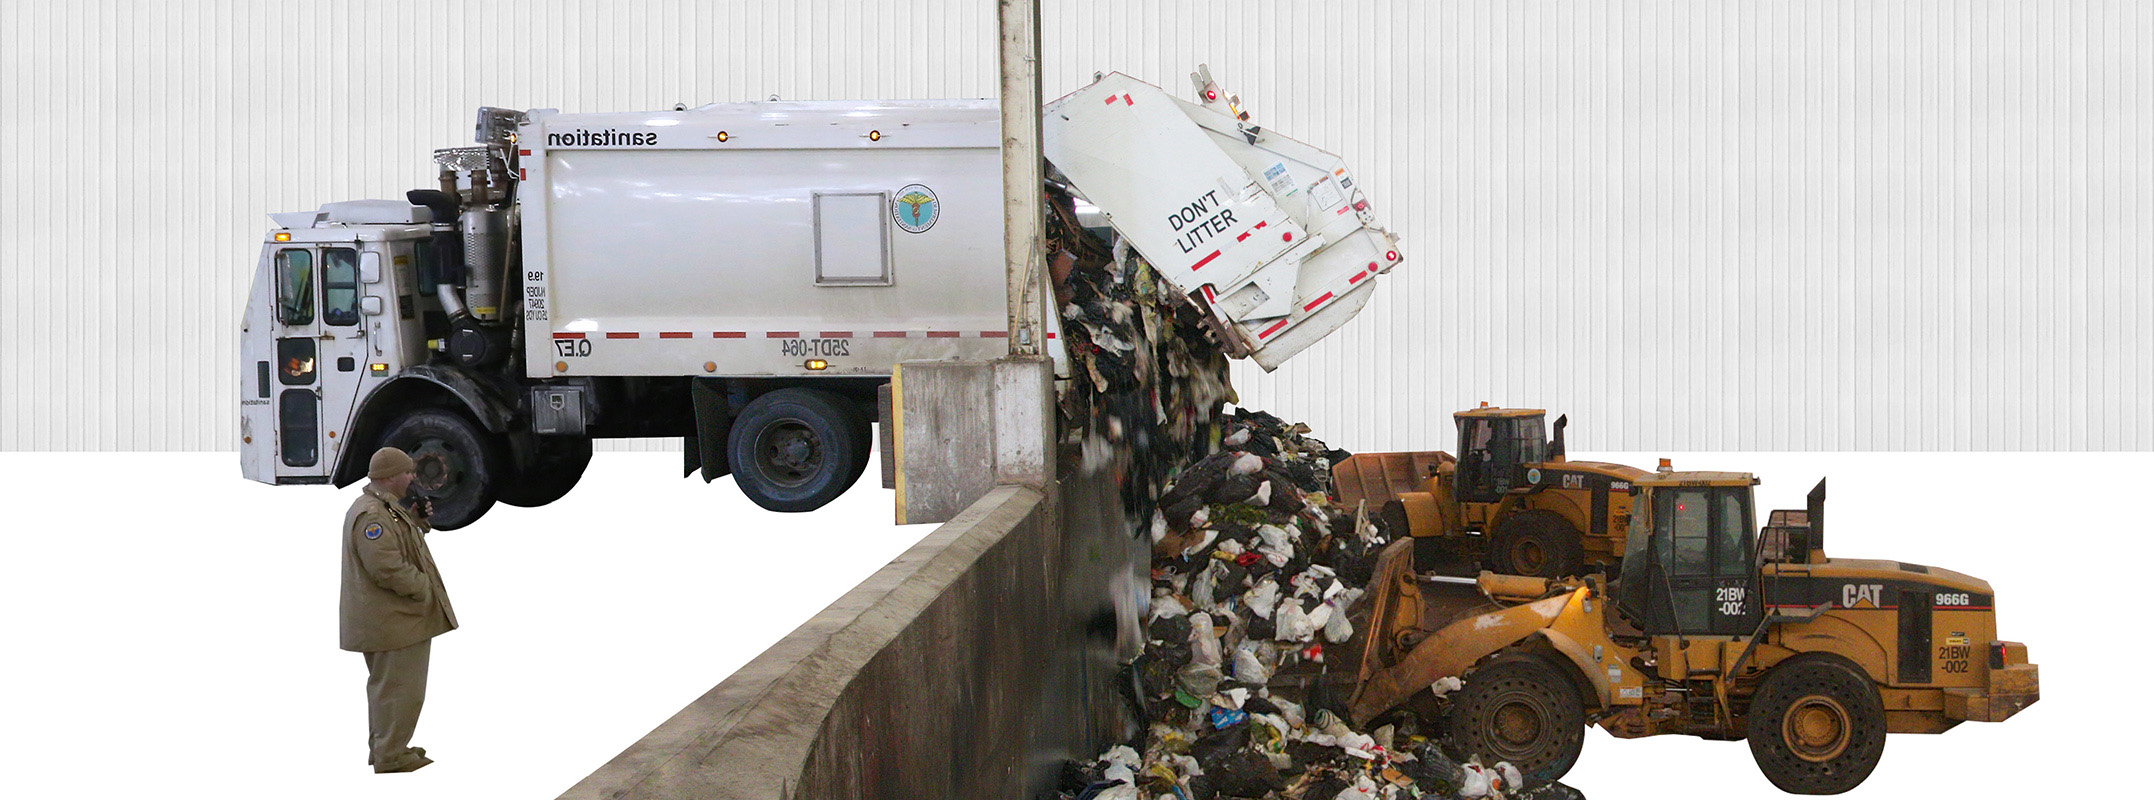
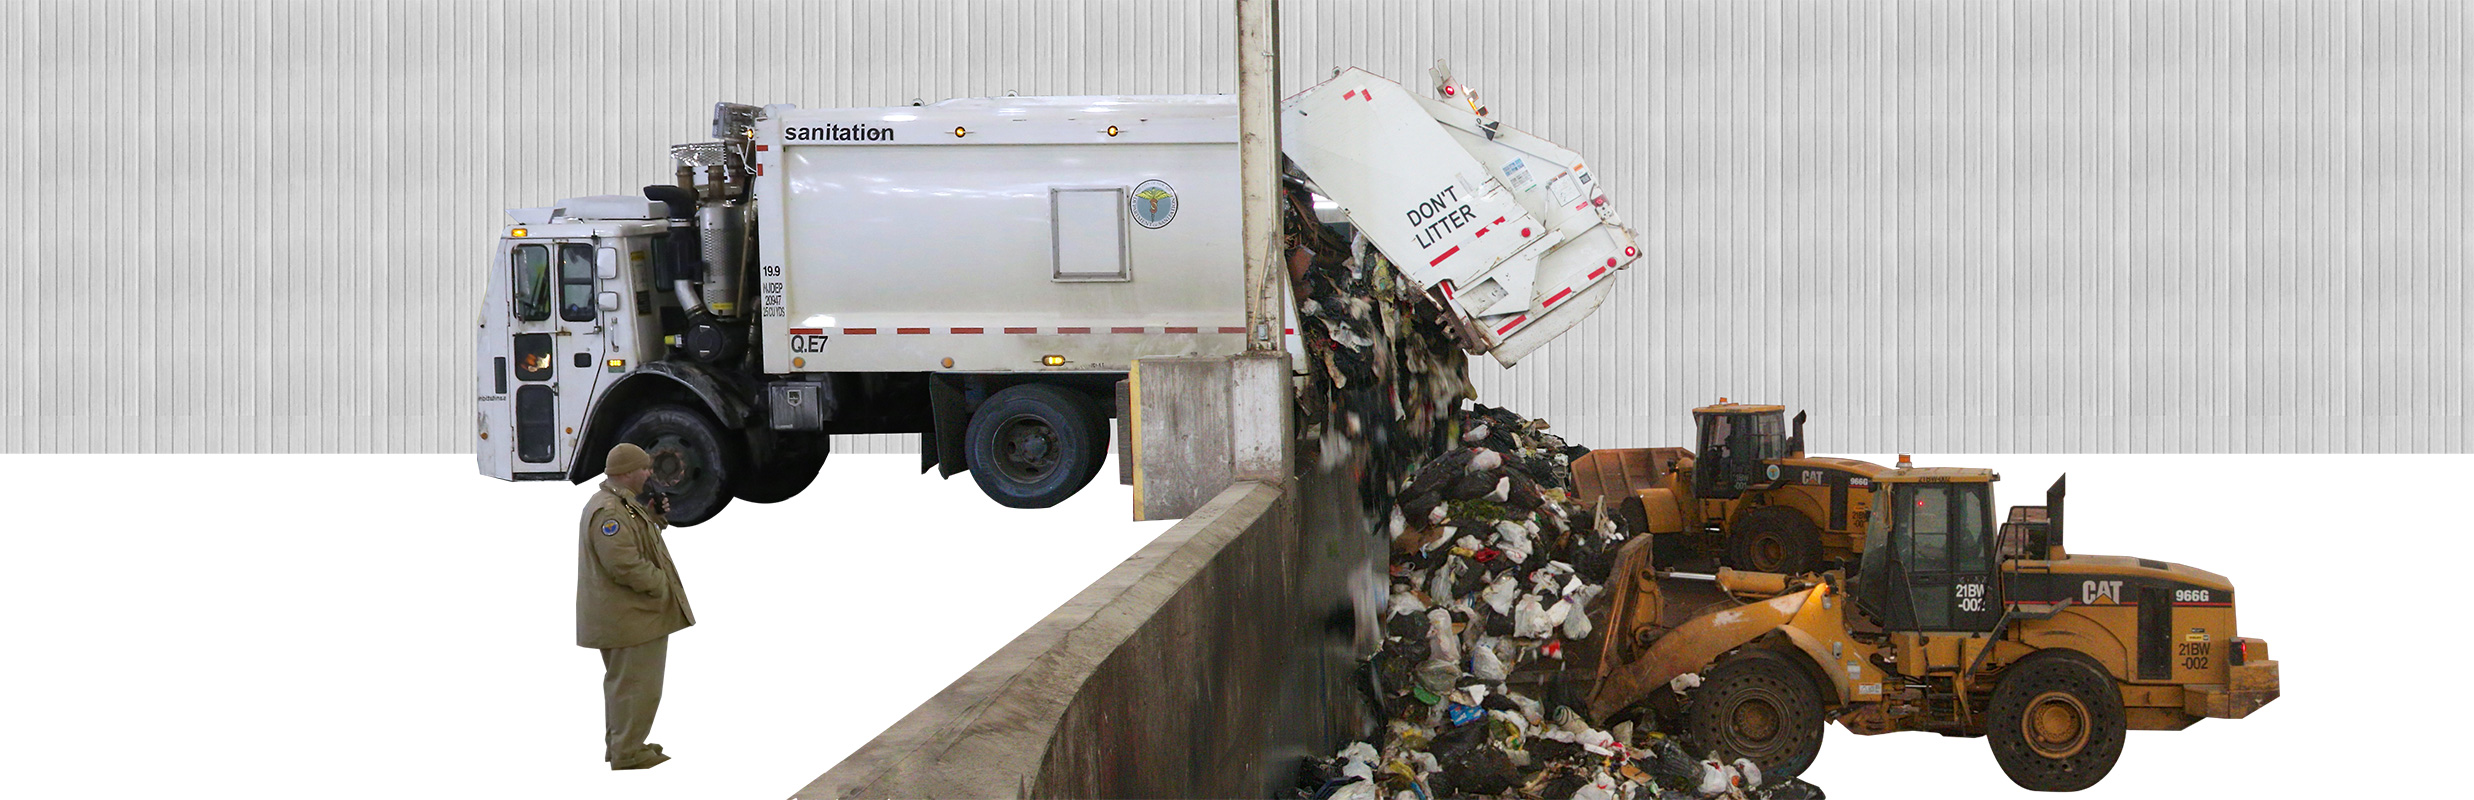
New images, order

diff --git a/app/index.html b/app/index.html
@@ -70,17 +70,23 @@
                 </div>
                 <div class="panel panel-image map-nyc" data-type="map" id="panel-2-2" data-geo="nyc"></div>
                 <div class="panel panel-image" data-type="image" id="panel-2-3" style="background-image:url('images/panel-2-3.jpg')"></div>
-                <div class="panel panel-image" data-type="image" id="panel-2-4" style="background-image:url('images/panel-2-4.jpg')"></div>
-                <div class="panel panel-text overlay" data-type="text-overlay" id="text-2-5">
+                <div class="panel panel-text overlay" data-type="text-overlay" id="text-2-4">
                   <div class="panel-text-wrapper">
                     <h3>Tipping</h3>
                     <p>Inside the transfer station, trucks will unload their content onto the "tipping floor".</p>
                   </div>
                 </div>
+                <div class="panel panel-image" data-type="image" id="panel-2-4" style="background-image:url('images/panel-2-4.jpg')"></div>
+                <div class="panel panel-text overlay" data-type="text-overlay" id="text-2-5">
+                  <div class="panel-text-wrapper">
+                    <h3>Compaction</h3>
+                    <p>Waste is loaded onto treadmills, which drops it into compactors.</p>
+                  </div>
+                </div>
                 <div class="panel panel-image" data-type="image" id="panel-2-5" style="background-image:url('images/panel-2-5.jpg')"></div>
                 <div class="panel" data-type="text-block" id="text-2-6">
                   <div class="panel-text-wrapper">
-                    <h3>Transfer</h3>
+                    <h3>Containerization</h3>
                     <p>After being compacted, waste is loaded into containers for long-distance transport.</p>
                   </div>
                 </div>
@@ -98,14 +104,15 @@
                 <div class="panel panel-image map-export" data-type="map" id="panel-3-2" data-geo="export"></div>
 
                 <!-- disposal -->
-                <div class="panel" data-type="text-block" id="text-4-1">
+                <div class="panel panel-text overlay" data-type="text-overlay" id="text-4-1">
                   <div class="panel-text-wrapper">
                     <h3>Disposal</h3>
                     <p>Landfills are essentially man-made mountains of waste, covered with soil.</p>
                     <p>They follow environmental regulations to prevent water and soil contamination.</p>
                   </div>
                 </div>
-                <div class="panel panel-image" data-type="image" id="panel-4-2" style="background-image:url('images/panel-4-2.jpg')"></div>
+                <div class="panel panel-image" data-type="image" id="panel-4-1" style="background-image:url('images/panel-4-2.jpg')"></div>
+                <div class="panel panel-image" data-type="image" id="panel-4-2" style="background-image:url('images/panel-4-3.jpg')"></div>
                 <div class="panel panel-text overlay" data-type="text-overlay" id="text-4-3">
                   <div class="panel-text-wrapper">
                     <h3>Compacting</h3>
@@ -113,7 +120,7 @@
                     <p>This process continues until several layers of waste have been put in place.</p>
                   </div>
                 </div>
-                <div class="panel panel-image" data-type="image" id="panel-4-3" style="background-image:url('images/panel-4-3.jpg')"></div>
+                <div class="panel panel-image" data-type="image" id="panel-4-3" style="background-image:url('images/panel-4-4.jpg')"></div>
                 <div class="panel" data-type="text-block" id="text-4-4">
                   <div class="panel-text-wrapper">
                     <h3>Piling up</h3>
@@ -121,7 +128,7 @@
                     <p>They can reach hundreds of feet in height.</p>
                   </div>
                 </div>
-                <div class="panel panel-image" data-type="image" id="panel-4-5" style="background-image:url('images/panel-4-5.jpg')"></div>
+                <div class="panel panel-image" data-type="image" id="panel-4-5" style="background-image:url('images/panel-4-6.jpg')"></div>
               </div>
               <!-- panels -->
             </div>

diff --git a/app/scripts/sizes.js b/app/scripts/sizes.js
@@ -1,1 +1,1 @@
-var vizImageSizes = [{"width":171,"height":169,"type":"png","filename":"ohny-logo-0.png"},{"width":347,"height":114,"type":"png","filename":"ohny-logo-1.png"},{"width":115,"height":114,"type":"png","filename":"ohny-logo-2.png"},{"width":347,"height":113,"type":"png","filename":"ohny-logo-3.png"},{"width":347,"height":113,"type":"png","filename":"ohny-logo-4.png"},{"height":732,"width":424,"type":"jpg","filename":"panel-0-1.jpg"},{"height":800,"width":3409,"type":"jpg","filename":"panel-1-1.jpg"},{"height":919,"width":4200,"type":"jpg","filename":"panel-2-3.jpg"},{"height":800,"width":2154,"type":"jpg","filename":"panel-2-4.jpg"},{"height":800,"width":2422,"type":"jpg","filename":"panel-2-5.jpg"},{"height":800,"width":4502,"type":"jpg","filename":"panel-2-7.jpg"},{"height":1110,"width":1637,"type":"jpg","filename":"panel-4-2.jpg"},{"height":1110,"width":1394,"type":"jpg","filename":"panel-4-3.jpg"},{"height":800,"width":1081,"type":"jpg","filename":"panel-4-5.jpg"},{"width":1,"height":1,"type":"gif","filename":"transparent.gif"}];
+var vizImageSizes = [{"width":171,"height":169,"type":"png","filename":"ohny-logo-0.png"},{"width":347,"height":114,"type":"png","filename":"ohny-logo-1.png"},{"width":115,"height":114,"type":"png","filename":"ohny-logo-2.png"},{"width":347,"height":113,"type":"png","filename":"ohny-logo-3.png"},{"width":347,"height":113,"type":"png","filename":"ohny-logo-4.png"},{"height":732,"width":424,"type":"jpg","filename":"panel-0-1.jpg"},{"height":800,"width":3409,"type":"jpg","filename":"panel-1-1.jpg"},{"height":701,"width":3350,"type":"jpg","filename":"panel-2-3.jpg"},{"height":800,"width":2474,"type":"jpg","filename":"panel-2-4.jpg"},{"height":800,"width":2343,"type":"jpg","filename":"panel-2-5.jpg"},{"height":800,"width":4502,"type":"jpg","filename":"panel-2-7.jpg"},{"height":808,"width":1321,"type":"jpg","filename":"panel-4-2.jpg"},{"height":800,"width":1241,"type":"jpg","filename":"panel-4-2_b.jpg"},{"height":1110,"width":1637,"type":"jpg","filename":"panel-4-3.jpg"},{"height":1110,"width":1394,"type":"jpg","filename":"panel-4-4.jpg"},{"height":800,"width":1081,"type":"jpg","filename":"panel-4-6.jpg"},{"width":1,"height":1,"type":"gif","filename":"transparent.gif"}];

diff --git a/app/styles/main.css b/app/styles/main.css
@@ -109,9 +109,6 @@ body {
   position: relative;
   float: left;
 }
-.panel-text {
-  /*position: relative;*/
-}
 .overlay {
   position: absolute;
   z-index: 1;

diff --git a/todo.md b/todo.md
@@ -16,14 +16,20 @@
 - check if mask with opacity is not too slow
 - where will the name of the journey be on the page? besides title tag
 
+# interactivity
+
+- allow use keyboard arrows and spacebar to scroll
+
 # photos
 
 - person taking out the trash
 - different sanitation workers, changes every time?
+- add dsny worker doing baskets
 - fix first photo of trash bags, falling to left
 - fix resolution and maybe set a series of different resolutions depending on device size
-- fix photo inside transfer station with empty background
-- fix tipping photo sanitation truck writing mirrorred
+<!-- - fix photo inside transfer station with empty background -->
+<!-- - fix tipping photo sanitation truck writing mirrorred -->
+- left treadmill looks wonky without anything under it
 
 # before deploy
 
